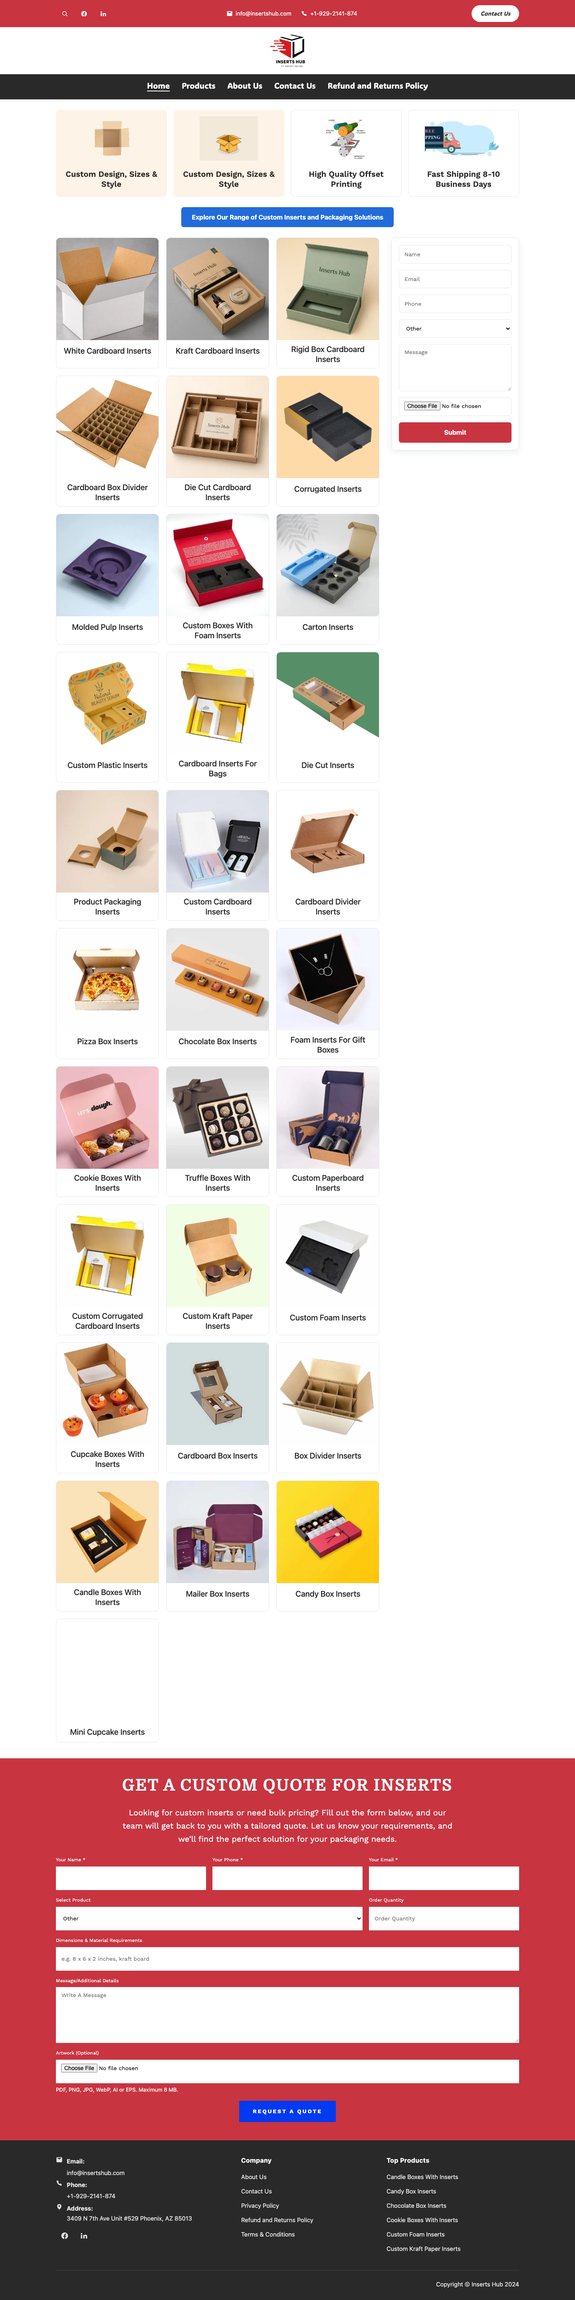
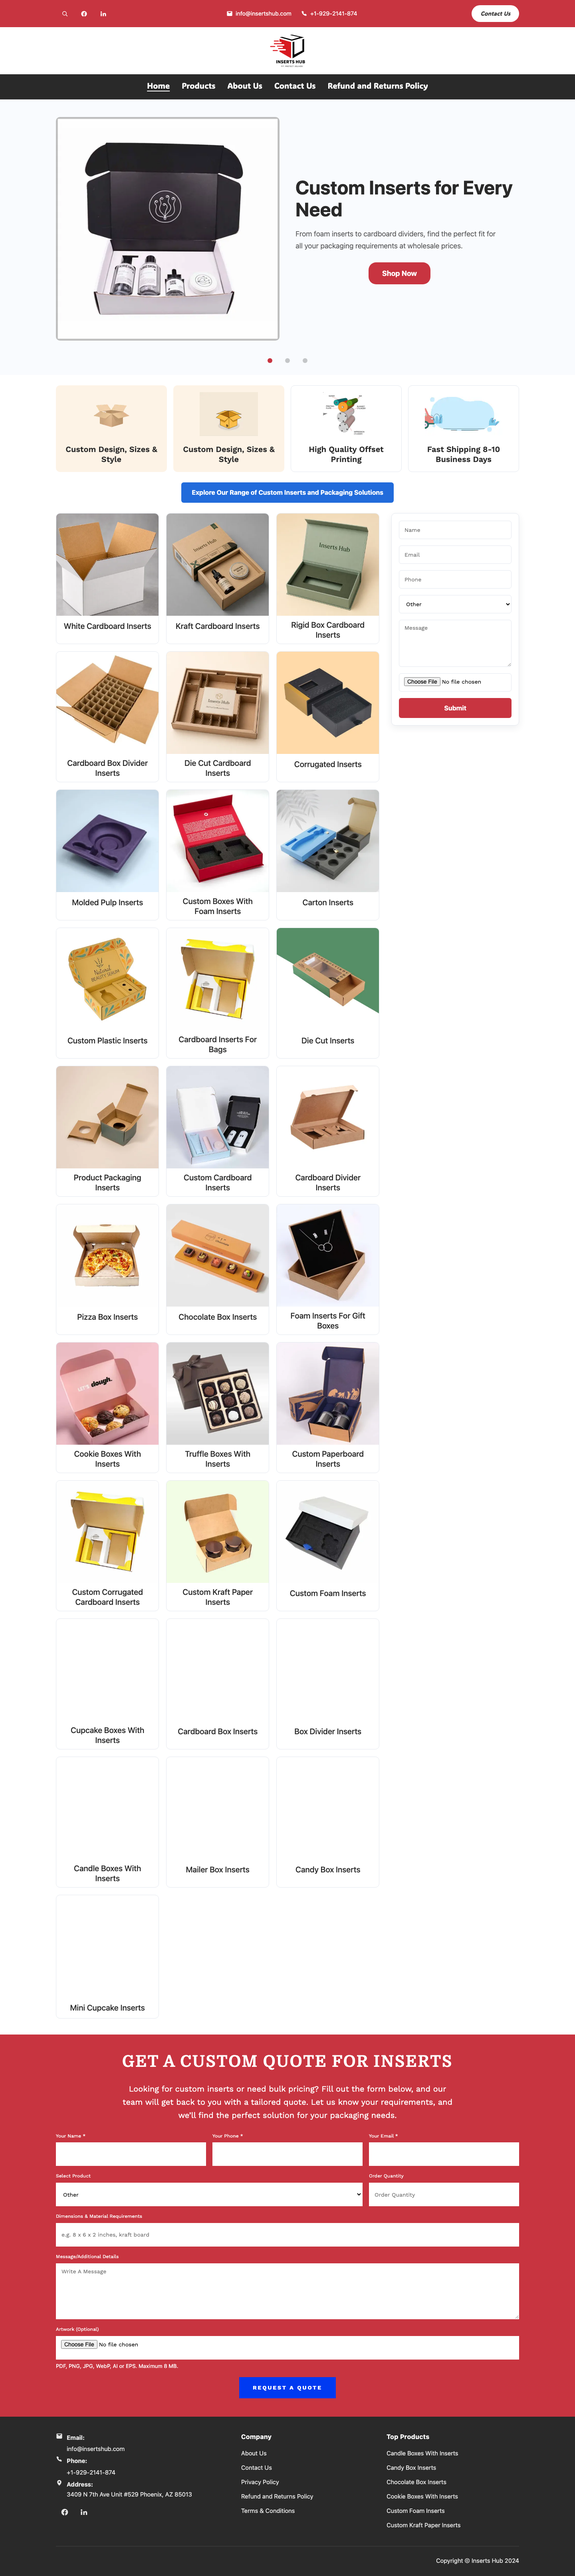
Build the hero slider from the supplied Elementor slide templates
Restores the hero at the client's direction, rebuilt from the three slide
templates that were provided as source material (#2722, #2730, #2736):

- 50/50 row per the templates: image left, heading and copy right, centred
  pill button (19px radius, red fill)
- Slide 1 carries the page h1, which also removes the visually-hidden h1
- Dots with keyboard support; autoplay pauses on hover, on focus, when the tab
  is hidden, and is disabled under prefers-reduced-motion
- All three slides ship in the HTML, so every heading and link stays crawlable
  and the section degrades to slide 1 without JavaScript
- Slide images repointed to the current .webp files; the templates' *-1.jpg
  references all 404

Performance: feature GIFs re-encoded (2.72MB -> 0.31MB) and lazy-loaded now
that the hero owns the fold. Lighthouse 100/100/100/100 desktop on all page
types; mobile homepage 97.

Claude-Session: https://claude.ai/code/session_01LfsdEL62cHQ3zooubmmEzx

diff --git a/src/styles/global.css b/src/styles/global.css
@@ -365,19 +365,48 @@ a:hover { color: var(--blue-light); }
 .crumbs [aria-current='page'] { color: var(--ink); font-weight: 600; }
 
 /* ---------------------------------------------------------------- hero slider */
+/* 50/50 row from the Elementor slide templates: image left, copy right. */
 .hero { background: var(--tint-3); }
+
 .hero__slide {
   display: grid;
   grid-template-columns: 1fr 1fr;
-  gap: 32px;
+  gap: 40px;
   align-items: center;
-  padding-block: 40px;
+  padding-block: 44px 20px;
 }
-.hero__slide[hidden] { display: none; }
-.hero__copy h1, .hero__copy h2 { margin-bottom: 0.45em; }
-.hero__copy p { color: var(--ink-soft); font-size: 1.05rem; max-width: 46ch; }
-.hero__media img { border-radius: var(--radius); width: 100%; height: auto; }
-.hero__dots { display: flex; gap: 0; justify-content: center; padding-bottom: 10px; }
+
+.hero__media img {
+  width: 100%;
+  height: auto;
+  border-radius: var(--radius);
+}
+
+.hero__copy h1,
+.hero__copy h2 {
+  margin-bottom: 0.4em;
+  font-size: clamp(1.85rem, 1.2rem + 2.6vw, 3rem);
+  line-height: 1.15;
+}
+
+.hero__copy p {
+  max-width: 46ch;
+  font-size: clamp(1rem, 0.94rem + 0.3vw, 1.125rem);
+  color: var(--ink-soft);
+}
+
+.hero__action { margin: 26px 0 0; text-align: center; }
+
+/* The slide button is a pill (19px radius in the template), centred. */
+.btn--pill { border-radius: 19px; padding: 13px 34px; }
+
+.hero__dots {
+  display: flex;
+  gap: 0;
+  justify-content: center;
+  padding-bottom: 14px;
+}
+
 /* 11px dot, 44px tap target: the padding is transparent and clipped to the box. */
 .hero__dots button {
   width: 44px;
@@ -389,11 +418,16 @@ a:hover { color: var(--blue-light); }
   background-clip: content-box;
   cursor: pointer;
 }
-.hero__dots button[aria-current='true'] { background: var(--red); background-clip: content-box; }
+.hero__dots button[aria-selected='true'] { background: var(--red); background-clip: content-box; }
 
-@media (max-width: 800px) {
-  .hero__slide { grid-template-columns: 1fr; gap: 22px; padding-block: 28px; }
-  .hero__media { order: -1; }
+@media (max-width: 860px) {
+  .hero__slide {
+    grid-template-columns: minmax(0, 1fr);
+    gap: 24px;
+    padding-block: 28px 12px;
+  }
+  .hero__copy p { max-width: none; }
+  .hero__action { text-align: left; }
 }
 
 /* ---------------------------------------------------------------- features */

diff --git a/src/lib/hero.ts b/src/lib/hero.ts
@@ -1,0 +1,9 @@
+/**
+ * Shared sizing for the hero slider so the component and the page-level
+ * `<link rel="preload">` always describe the same rendition.
+ *
+ * A `slot="head"` inside HeroSlider would not reach BaseLayout — slots only
+ * cross one component boundary — so the preload has to be emitted by the page.
+ */
+export const HERO_WIDTHS = [360, 480, 640, 800, 1120];
+export const HERO_SIZES = '(min-width: 861px) 560px, 100vw';

diff --git a/reports/MIGRATION_CONFLICTS.md b/reports/MIGRATION_CONFLICTS.md
@@ -12,7 +12,26 @@ Malware-contaminated live content never overrode a clean export.
 
 ---
 
-## 1. Which homepage template is real
+## 1. Hero slider — restored at the client's direction
+
+**Conflict.** The live homepage renders no hero slider: none of the three slide
+headings appear in its HTML, and the PDF capture shows the feature cards sitting
+directly under the navigation. But the client supplied slide templates #2722,
+#2730 and #2736 as source material and asked for the hero to be built.
+
+**Resolution.** Built from those templates exactly as authored — a 50/50 row with
+the image on the left, heading and body copy on the right, and a centred pill
+button (19px radius, red fill) below. Slide 1 carries the page's `<h1>`, which
+also resolves the homepage's missing-H1 problem without inventing a headline.
+
+The three slide images referenced in the templates (`*-1.jpg`) all 404; they were
+replaced by `.webp` versions during a media cleanup and the slides were never
+updated. The current files of the same subjects are used instead.
+
+**Note.** This is the one place where the new site intentionally shows something
+the live site does not, and it was an explicit client instruction.
+
+## 2. Which homepage template is real
 
 **Conflict.** The export contains six homepage-ish Elementor templates: #36
 `homepage`, #494 `Homepage`, #7057 `Homepage`, #7060 `latest homepage`, #7063
@@ -31,7 +50,7 @@ rebuilt slider uses, and #2722 carries the `<h1>`.
 
 ---
 
-## 2. Homepage product grid: 18 products in the XML vs 31 live
+## 3. Homepage product grid: 18 products in the XML vs 31 live
 
 **Conflict.** The rendered homepage snapshot inside the WordPress XML lists 18
 products. The PDF capture and the live page show 31.
@@ -43,7 +62,7 @@ in the live `product-sitemap.xml` exactly.
 
 ---
 
-## 3. Fabricated Product review data
+## 4. Fabricated Product review data
 
 **Conflict.** Every live product page emits:
 
@@ -67,7 +86,7 @@ them. This is a deliberate correction, not a regression.
 
 ---
 
-## 4. `priceValidUntil`
+## 5. `priceValidUntil`
 
 **Conflict.** Live Offer schema carries `priceValidUntil: 2027-07-23`, a rolling
 date generated by the plugin with no basis in the product data.
@@ -77,7 +96,7 @@ date generated by the plugin with no basis in the product data.
 
 ---
 
-## 5. WooCommerce cart, checkout and My Account
+## 6. WooCommerce cart, checkout and My Account
 
 **Conflict.** `/cart/`, `/checkout/` and `/my-account/` are in the live sitemap,
 but they are WooCommerce runtime pages with no static equivalent — and all three
@@ -95,7 +114,7 @@ say so and it can be added. See "Remaining manual decisions" in
 
 ---
 
-## 6. "Add To Cart" button on product pages
+## 7. "Add To Cart" button on product pages
 
 **Conflict.** Live product pages show an **Add To Cart** button linking to
 `?add-to-cart=<id>`. With no cart, that link cannot survive.
@@ -107,7 +126,7 @@ button that would 404 was not.
 
 ---
 
-## 7. Two About pages
+## 8. Two About pages
 
 **Conflict.** `/about-us/` (post #429) and `/about-us-2/` (post #3130) share the
 same title, the same H1 and near-identical body copy. Both self-canonicalise and
@@ -119,7 +138,7 @@ injected casino spam. 301 to `/about-us/`.
 
 ---
 
-## 8. `/product/White-cardboard-inserts/` served at HTTP 200
+## 9. `/product/White-cardboard-inserts/` served at HTTP 200
 
 **Conflict.** `/product/kraft-cardboard-inserts/` links to a capitalised variant
 of the White Cardboard Inserts URL. WordPress serves it at 200, creating
@@ -130,7 +149,7 @@ and the capitalised path 301s to it.
 
 ---
 
-## 9. Links to two draft products
+## 10. Links to two draft products
 
 **Conflict.** Live copy links to `/product/printed-cardboard-inserts/` and
 `/product/recycled-cardboard-inserts/`. Both are drafts (`Published = -1`) and
@@ -142,7 +161,7 @@ for the URLs themselves.
 
 ---
 
-## 10. Pages with no `<h1>`
+## 11. Pages with no `<h1>`
 
 **Conflict.** The live homepage, contact page, refund page and thank-you page
 render no `<h1>` at all.
@@ -160,7 +179,7 @@ No new copy was written.
 
 ---
 
-## 11. Missing hero slide images
+## 12. Missing hero slide images
 
 **Conflict.** Elementor slides reference `Corrugated-Cardboard-Inserts-Packaging-1.jpg`,
 `Mini-Cupcake-Inserts-1.jpg` and `Cardboard-Divider-Inserts-Packaging-1.jpg`.
@@ -174,7 +193,7 @@ photography was invented and no third-party image was introduced.
 
 ---
 
-## 12. WooCommerce sorting dropdown
+## 13. WooCommerce sorting dropdown
 
 **Conflict.** The live archive has a "Default sorting / by popularity / by
 latest / by price" dropdown producing `?orderby=` URLs.
@@ -186,7 +205,7 @@ preserved exactly.
 
 ---
 
-## 13. Meta descriptions that did not exist
+## 14. Meta descriptions that did not exist
 
 **Conflict.** Seven pages had **no** meta description on the old site:
 `/products/`, `/about-us/`, `/privacy-policy/`, `/refund_returns/`,
